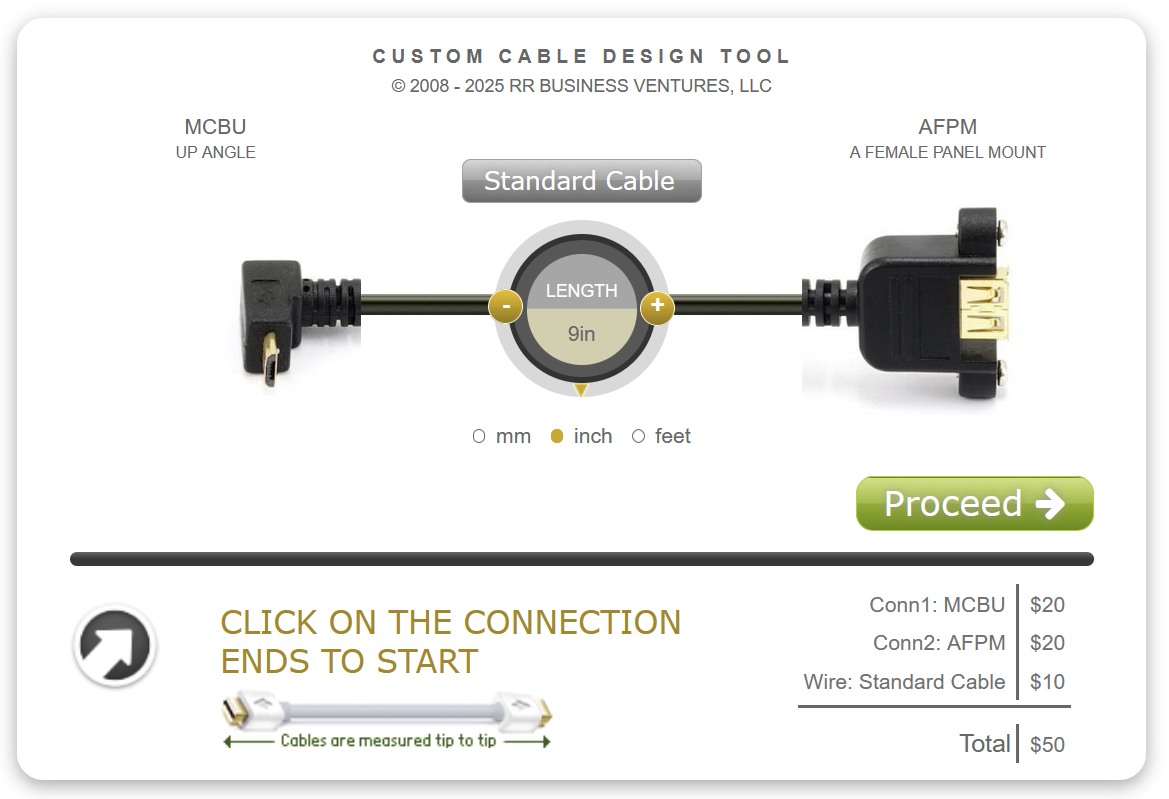
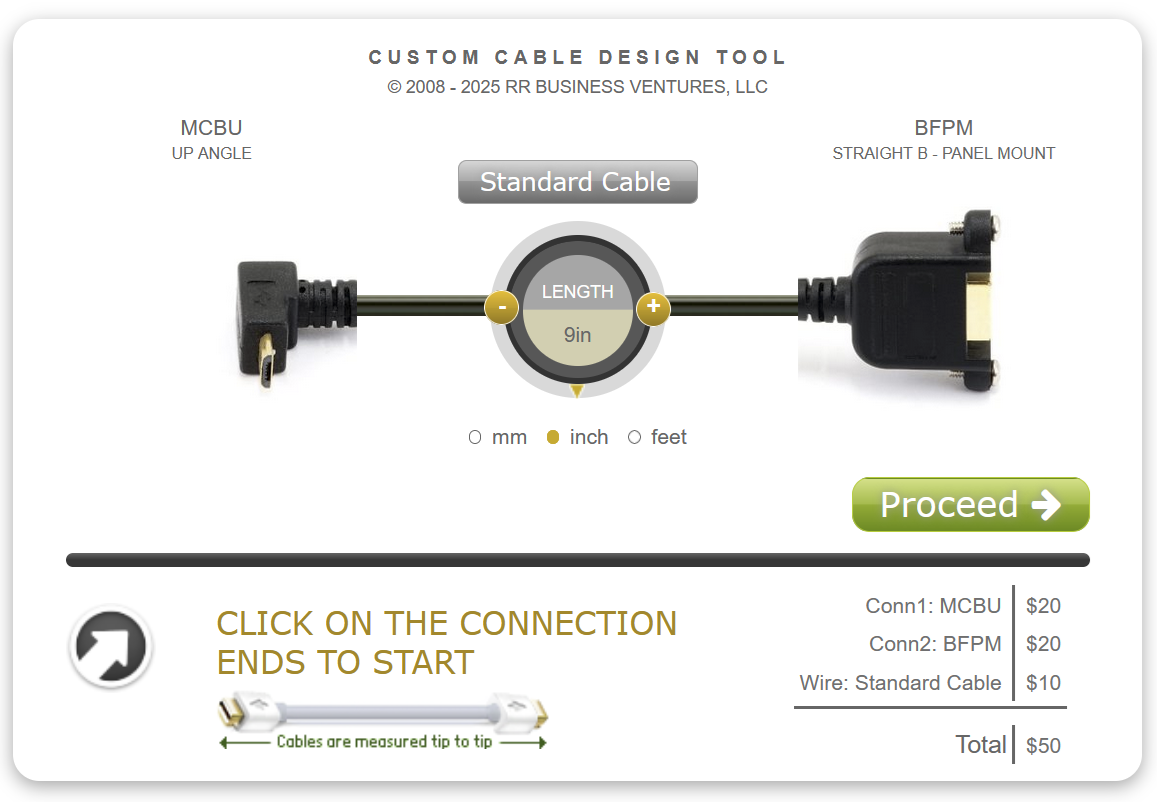
whoops

diff --git a/Duophonic/Panel.md b/Duophonic/Panel.md
@@ -191,7 +191,7 @@ Or the [DataPro left-angle version](https://www.datapro.net/products/panel-mount
 
 Need to measure the cables in-situ taking account of bending radius.
 
-[Custom cables](https://www.usbfirewire.com/e-custom.aspx) have up-angle micro-B and panel-mount A female options. Estimate is USD 40.
+[Custom cables](https://www.usbfirewire.com/e-custom.aspx) have up-angle micro-B and panel-mount B female options. Estimate is USD 50.
 
 ![custom](./img/custom-usb.png)
 
